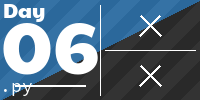
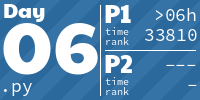
2024 - Day 6, part 1
Throw away all the clever stuff, and simply simulate it out.

diff --git a/ibidem/advent_of_code/y2024/dec06.py b/ibidem/advent_of_code/y2024/dec06.py
@@ -88,7 +88,28 @@ def find_obstacle(guard, row_obstacles, col_obstacles):
                     return x + adjust, guard.y
 
 
-def part1(board: Board):
+def part1(board:Board):
+    _, _, guard = find_things(board)
+    while True:
+        board.set(guard.x, guard.y, "1")
+        new_pos = {
+            Direction.UP: (guard.x, guard.y - 1),
+            Direction.DOWN: (guard.x, guard.y + 1),
+            Direction.LEFT: (guard.x - 1, guard.y),
+            Direction.RIGHT: (guard.x + 1, guard.y),
+        }[guard.direction]
+        if new_pos[0] < 0 or new_pos[1] < 0:
+            break
+        if new_pos[0] >= board.size_x or new_pos[1] >= board.size_y:
+            break
+        if board.get(*new_pos) == "#":
+            guard.rotate()
+            continue
+        guard.x, guard.y = new_pos
+    return board.count("1")
+
+
+def part1_clever(board: Board):
     row_obstacles, col_obstacles, guard = find_things(board)
     board.grid[guard.y][guard.x] = "1"
     new_pos = find_obstacle(guard, row_obstacles, col_obstacles)

diff --git a/README.rst b/README.rst
@@ -34,7 +34,7 @@ To add a pre-commit hook that generates tiles, copy `pre-commit` to `.git/hooks/
 
 .. AOC TILES BEGIN - 2024
 
-2024 - 10 ⭐
+2024 - 12 ⭐
 .............
 
 .. image:: Media/2024/01.png
